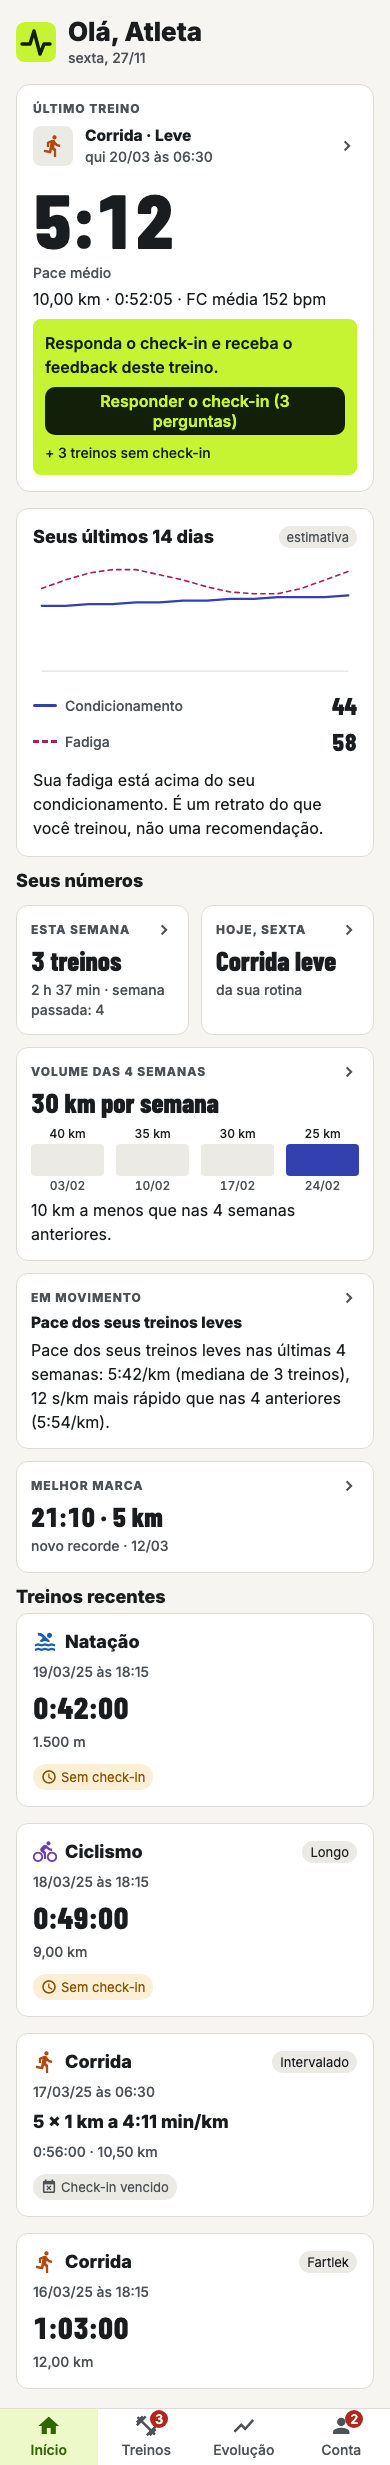
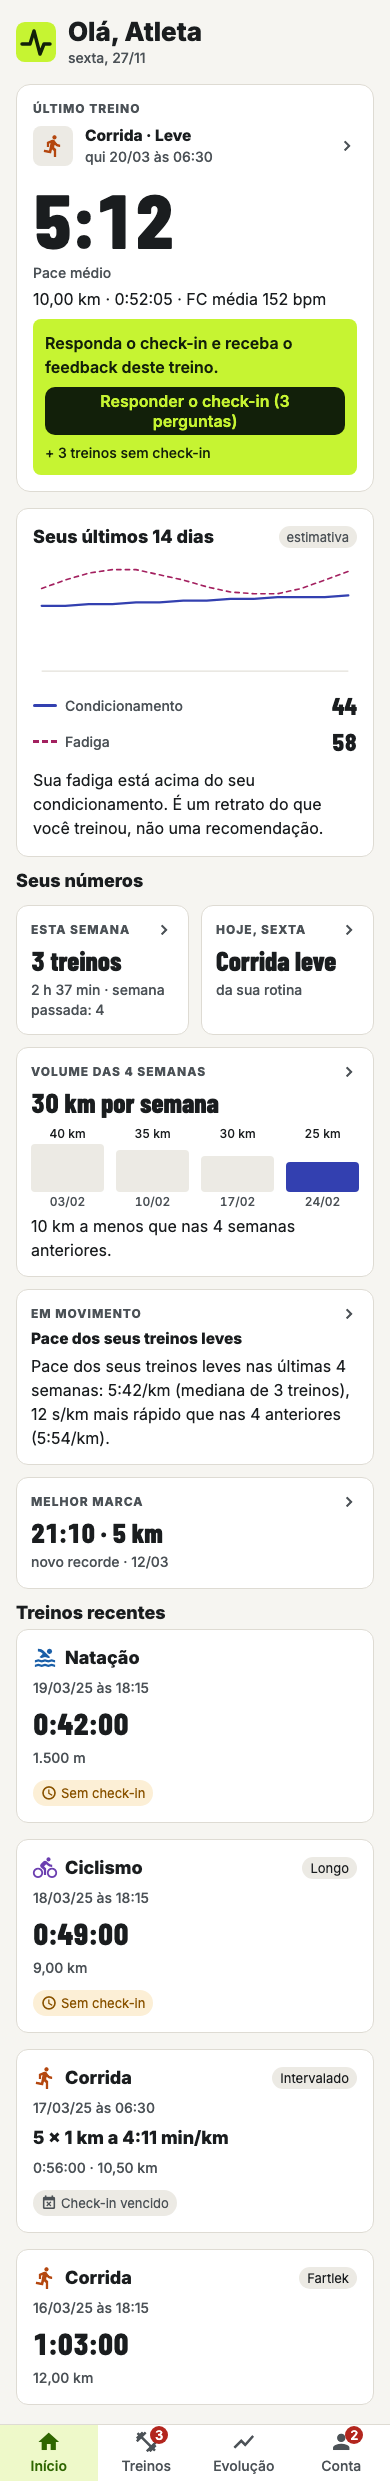
App: barras do volume com a altura do altura_pct da API (#583)

diff --git a/apps/mobile/src/componentes/SecaoNumeros.tsx b/apps/mobile/src/componentes/SecaoNumeros.tsx
@@ -84,7 +84,10 @@ function Cartao({ cartao, aoAbrir, styles, tema, sozinho }: { cartao: CartaoInic
           {cartao.barras.map((b, i) => (
             <View key={`${b.data_texto}-${i}`} style={styles.barraColuna}>
               <Text style={styles.barraValor}>{b.valor_texto}</Text>
-              <View style={[styles.barra, b.destaque ? styles.barraDestaque : styles.barraComum]} />
+              <View testID={`barra-${i}`} style={styles.barraTrilho}>
+                {/* `altura_pct` (0 a 100, relativo à maior) vem da API: o app só desenha. Mínimo de 2 px para a barra nunca sumir. */}
+                <View testID={`barra-altura-${i}`} style={[styles.barra, { height: `${b.altura_pct}%`, minHeight: 2 }, b.destaque ? styles.barraDestaque : styles.barraComum]} />
+              </View>
               <Text style={styles.barraData}>{b.data_texto}</Text>
             </View>
           ))}
@@ -118,7 +121,8 @@ function criarEstilos({ cor }: Tema) {
     barras: { flexDirection: "row", alignItems: "flex-end", gap: espaco[3], paddingTop: espaco[1] },
     barraColuna: { flex: 1, alignItems: "center", gap: 2 },
     barraValor: { ...fonte.eixo, color: cor.texto },
-    barra: { width: "100%", height: 32, borderRadius: raio.pequeno },
+    barraTrilho: { width: "100%", height: 48, justifyContent: "flex-end" },
+    barra: { width: "100%", borderRadius: raio.pequeno },
     barraDestaque: { backgroundColor: cor["grafico.pace"] },
     barraComum: { backgroundColor: cor["superficie-2"] },
     barraData: { ...fonte.eixo, color: cor["texto-2"] },

diff --git a/apps/mobile/__tests__/TelaInicio.test.tsx b/apps/mobile/__tests__/TelaInicio.test.tsx
@@ -1,4 +1,5 @@
 import type { Atividade } from "@treino/api-client";
+import { StyleSheet } from "react-native";
 import { fireEvent, render, screen, waitFor, within } from "@testing-library/react-native";
 
 import { atividades } from "../__fixtures__/atividades";
@@ -240,6 +241,14 @@ describe("início v4: Seus números", () => {
     const barras = within(await screen.findByTestId("barras-volume_4_semanas"));
     for (const t of ["40 km", "03/02", "25 km", "24/02"]) expect(barras.getByText(t)).toBeTruthy();
     expect(barras.getAllByText(/ km$/)).toHaveLength(4);
+  });
+
+  it("a altura de cada barra segue o altura_pct da API (o app só desenha)", async () => {
+    await render(comNumeros());
+    const barras = within(await screen.findByTestId("barras-volume_4_semanas"));
+    const alturas = [0, 1, 2, 3].map((i) => StyleSheet.flatten(barras.getByTestId(`barra-altura-${i}`).props.style).height);
+    expect(alturas).toEqual(["100%", "88%", "75%", "63%"]);
+    expect(new Set(alturas).size).toBe(4); // não são mais todas iguais
   });
 
   it("cada cartão é um botão com o rótulo falado da API, e o toque abre o destino dele", async () => {

diff --git a/apps/mobile/__fixtures__/cartoes.ts b/apps/mobile/__fixtures__/cartoes.ts
@@ -16,10 +16,10 @@ export const volume4: CartaoInicio = {
   id: "volume_4_semanas", formato: "largo", rotulo: "Volume das 4 semanas", valor: "30 km por semana", apoio: null,
   texto: "30 km por semana, 10 km a menos que nas 4 anteriores.",
   barras: [
-    { data_texto: "03/02", valor_texto: "40 km", destaque: false },
-    { data_texto: "10/02", valor_texto: "35 km", destaque: false },
-    { data_texto: "17/02", valor_texto: "30 km", destaque: false },
-    { data_texto: "24/02", valor_texto: "25 km", destaque: true },
+    { data_texto: "03/02", valor_texto: "40 km", altura_pct: 100, destaque: false },
+    { data_texto: "10/02", valor_texto: "35 km", altura_pct: 88, destaque: false },
+    { data_texto: "17/02", valor_texto: "30 km", altura_pct: 75, destaque: false },
+    { data_texto: "24/02", valor_texto: "25 km", altura_pct: 63, destaque: true },
   ],
   destino: { tela: "evolucao", serie_id: "corrida.volume_km", atividade_id: null },
   rotulo_acessivel: "Volume das 4 semanas, 30 km por semana. Abre a evolução do volume.",

diff --git a/docs/modulos/mobile.md b/docs/modulos/mobile.md
@@ -86,7 +86,7 @@ O app não calcula pace: todo `m:ss` virá da [[modulos/api]].
 ## Início v4: "Seus números" (#583)
 Spec [[design/telas/inicio-v4]] (aprovada); contrato em [[modulos/api]] (`GET /atletas/{id}/inicio/cartoes`, adendo 15 da [[decisoes/0004-contrato-tela-evolucao]]). `buscarCartoesInicio` no `@treino/api-client`; `src/componentes/SecaoNumeros.tsx` e, em `TelaInicio`, a busca `numeros`. **O app não soma, compara nem arredonda**: `rotulo`, `valor`, `apoio`, `texto`, `barras` e `rotulo_acessivel` vêm prontos.
 - **Onde fica:** no celular, entre a quinzena e os treinos recentes; no computador (≥ 900), na coluna do último treino. Título "Seus números".
-- **Ordem e layout:** a da API (até 5). Pequenos em pares (altura mínima 112); um pequeno sozinho ocupa a linha; largos ocupam a linha e quebram o par (`linhasDeCartoes`). Cartão = botão inteiro, `accessibilityLabel` = `rotulo_acessivel`, rótulo em maiúsculas (`fonte.sobretitulo`), número em `fonte.numero-destaque` (32; 27 se passa de 8 caracteres), `chevron-right` no canto. Cartão com `barras` (volume das 4 semanas): 4 barras com o `valor_texto` em cima e a `data_texto` embaixo; a de `destaque` em azul, as outras em `superficie-2`; o largo só de texto (Em movimento) mostra o `valor` como título e a frase em `texto`.
+- **Ordem e layout:** a da API (até 5). Pequenos em pares (altura mínima 112); um pequeno sozinho ocupa a linha; largos ocupam a linha e quebram o par (`linhasDeCartoes`). Cartão = botão inteiro, `accessibilityLabel` = `rotulo_acessivel`, rótulo em maiúsculas (`fonte.sobretitulo`), número em `fonte.numero-destaque` (32; 27 se passa de 8 caracteres), `chevron-right` no canto. Cartão com `barras` (volume das 4 semanas): 4 barras com o `valor_texto` em cima e a `data_texto` embaixo, **a altura de cada uma = `altura_pct` da API** (0 a 100, relativo à maior; o app só desenha, num trilho de 48, mínimo 2; #586); a de `destaque` em azul, as outras em `superficie-2`; o largo só de texto (Em movimento) mostra o `valor` como título e a frase em `texto`.
 - **Destino** (`destino.tela`, na rota `(abas)/index.tsx`): `evolucao` navega para `/evolucao?serie=<serie_id>` (sem `serie_id`, só `/evolucao`); a rota `(abas)/evolucao.tsx` lê `serie` e passa `serieInicial` à `TelaEvolucao`, que abre nela (vence a última escolhida e a padrão; com a tela aberta troca uma vez por pedido e não grava como escolha do atleta; série indisponível mostra o motivo); `semana_padrao` abre `/semana-padrao`; `treino` abre `/treino/<atividade_id>`.
 - **Estados:** carregando = esqueleto (`EsqueletoCartoes`) e o texto "Carregando seus números" para o leitor; sem cartão, ou erro na busca = a seção e o título **somem em silêncio** (são extras: o erro do último treino e da quinzena continuam); sem treinos no app = o início vazio da v3. Sem `aoAbrirDestino`, a seção não aparece.
 - Testes: bloco "início v4: Seus números" em `__tests__/TelaInicio.test.tsx` (ordem, textos da API, pares, barras, rótulo falado, destinos, só os que vieram, erro, esqueleto, computador), `__tests__/rotaInicioNumeros.test.tsx` (destinos na rota e `?serie=` na Evolução), `index.test.tsx` (série pedida), fixtures `__fixtures__/cartoes.ts`. API falsa: atleta 2 sem cartões, 33 só a melhor marca, 34 a busca responde `500`. Capturas `inicio-v4-*` (390 na altura inteira e 1280, claro e escuro) em `docs/design/telas/inicio-v4-app/`.
